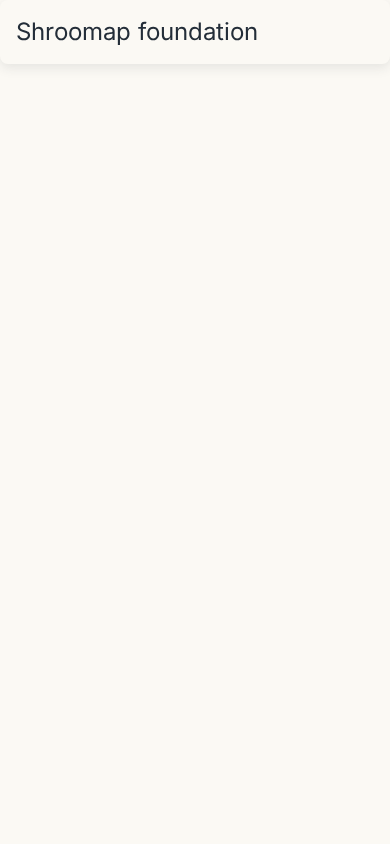
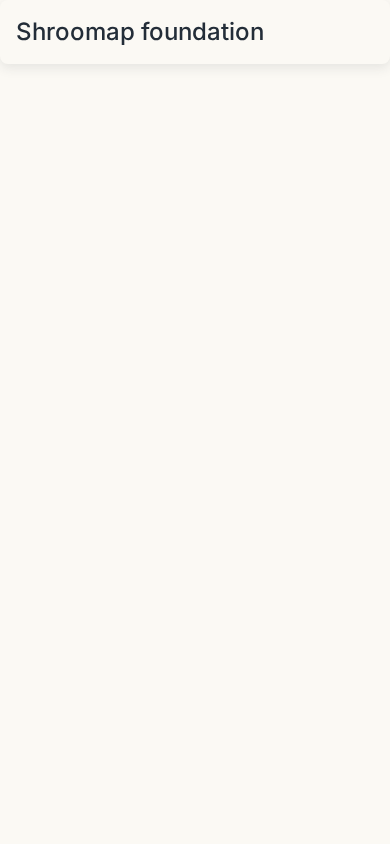
TASK-066: fix token-lint fixture (F-1), add pinned axe-core e2e (F-3), h1 on the test page

Changed region(s): [[0.0615, 0.0308, 0.6769, 0.0616]]

diff --git a/apps/web/e2e/design-import.spec.ts b/apps/web/e2e/design-import.spec.ts
@@ -1,4 +1,5 @@
-import { mkdirSync } from 'node:fs';
+import { mkdirSync, writeFileSync } from 'node:fs';
+import AxeBuilder from '@axe-core/playwright';
 import { expect, test } from '@playwright/test';
 
 const evidence = process.env.EVIDENCE_DIR ?? '../../docs/evidence/TASK-066';
@@ -74,6 +75,17 @@ test.describe('@TASK-066 design import through the built web app', () => {
       expect(face.weight).toBe('400 600');
     }
   });
+
+  for (const width of [390, 1440]) {
+    test(`has no axe violations at ${width} px`, async ({ page }) => {
+      mkdirSync(evidence, { recursive: true });
+      await page.setViewportSize({ width, height: 900 });
+      await page.goto('/');
+      const results = await new AxeBuilder({ page }).analyze();
+      writeFileSync(`${evidence}/axe-${width}.json`, JSON.stringify(results.violations, null, 2));
+      expect(results.violations).toEqual([]);
+    });
+  }
 
   test('runs beside the built api', async ({ request }) => {
     const res = await request.get(`${process.env.E2E_API_URL}/health/live`);

diff --git a/apps/web/src/design/token-map.test.ts b/apps/web/src/design/token-map.test.ts
@@ -32,7 +32,7 @@ describe('design tokens (TASK-066)', () => {
 
   it('reads declarations and tolerates an empty stylesheet', () => {
     expect(declarations('  ').size).toBe(0);
-    expect(declarations(':root { --a: 1px; }').get('--a')).toBe('1px');
+    expect(declarations(':root { --a: 1; }').get('--a')).toBe('1');
   });
 
   it('carries the portal override for administration', () => {

diff --git a/apps/web/src/app/page.tsx b/apps/web/src/app/page.tsx
@@ -4,7 +4,7 @@ export default function HomePage() {
       className="bg-background p-4 text-page rounded-lg shadow-md font-sans text-foreground"
       data-testid="home"
     >
-      Shroomap foundation
+      <h1 className="font-medium">Shroomap foundation</h1>
     </main>
   );
 }

diff --git a/docs/evidence/TASK-066/README.md b/docs/evidence/TASK-066/README.md
@@ -5,4 +5,6 @@
 - Token lint: `scripts/ci/token-lint.sh` (tree) and `scripts/ci/token-lint.sh --self-test` (negative fixtures: raw hex, rgb(), `w-[13px]`, `[color:red]`, `13px`, Google Fonts `@import`, remote `@font-face`, `next/font/google`) both exit 0.
 - Network capture: the e2e test records every request of the page and asserts none leaves the web origin; CDP `CSS.getPlatformFontsForNode` reports `Inter` as a custom font.
 
-Limitations: axe-core is not in the lockfile, so no axe run on the test page (single text line, no components yet); the e2e api is the built api started with the fixture configuration (`tools/foundation-tests/api-env.ts`), checked on `/health/live`, no database. Files outside the ticket's allowed paths that this ticket needed: `apps/web/{postcss.config.mjs,playwright.config.ts,vitest.config.ts,e2e/**,src/design/**,package.json}`, `apps/web/src/app/page.tsx`, `pnpm-lock.yaml`, `eslint.config.mjs` and `.prettierignore` (ignore `design/`).
+- axe: `@axe-core/playwright` 4.10.2 (pinned) runs in the e2e at 390 and 1440 px; 0 violations (`axe-390.json`, `axe-1440.json`). The test page gained an `<h1>` for it.
+
+Limitations: the e2e api is the built api started with the fixture configuration (`tools/foundation-tests/api-env.ts`), checked on `/health/live`, no database. Files outside the ticket's allowed paths that this ticket needed: `apps/web/{postcss.config.mjs,playwright.config.ts,vitest.config.ts,e2e/**,src/design/**,package.json}`, `apps/web/src/app/page.tsx`, `pnpm-lock.yaml`, `eslint.config.mjs` and `.prettierignore` (ignore `design/`).
